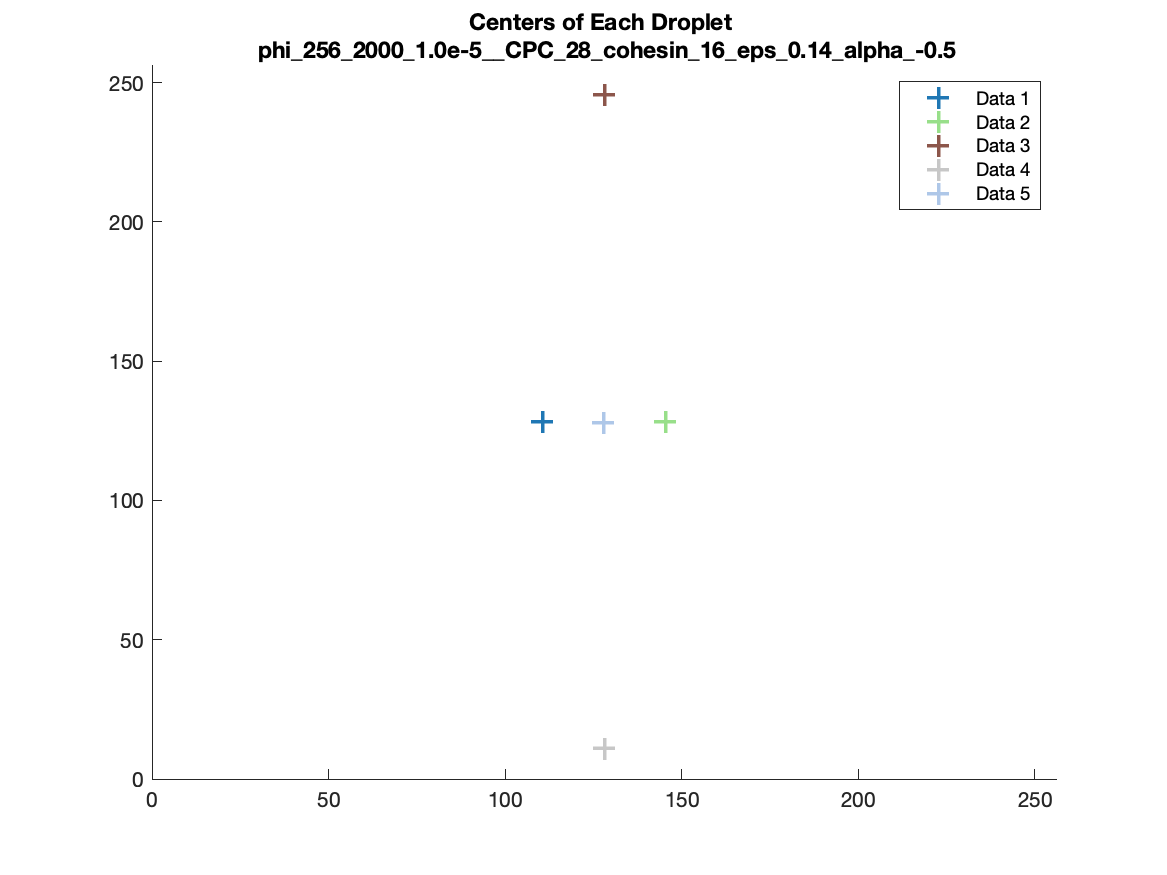
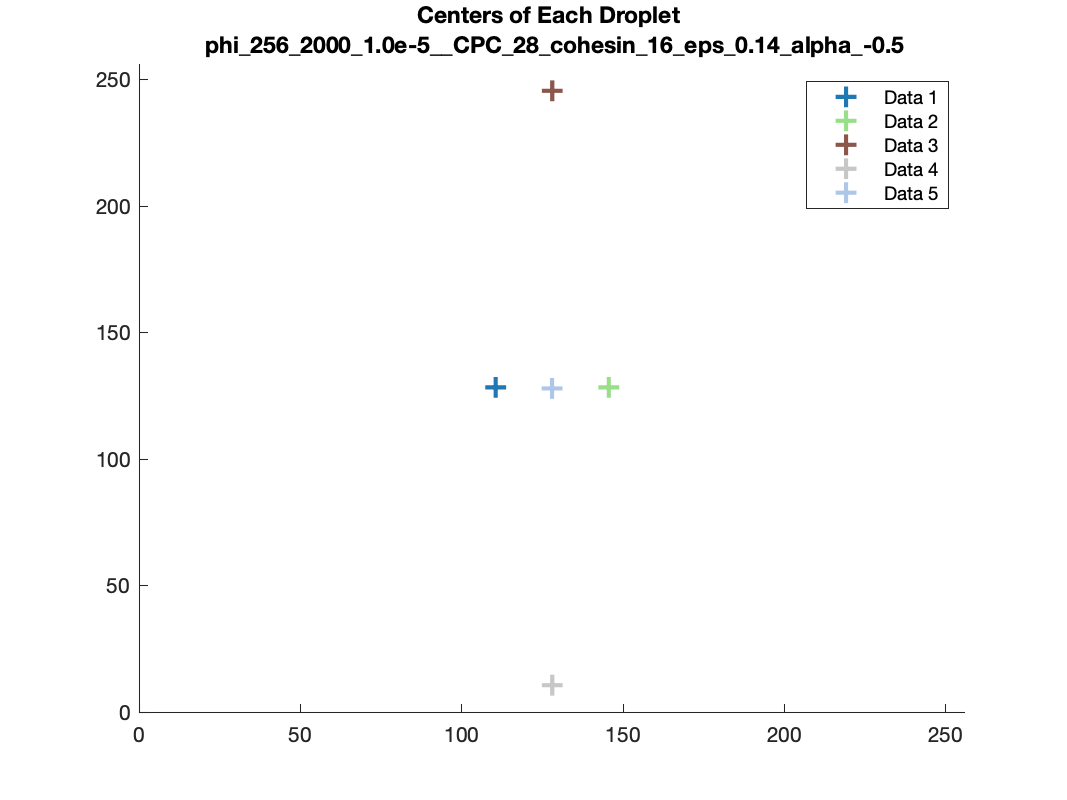
CPC radii eps 0.08 0.14

diff --git a/Cahn_Hilliard_solvers/plotting/level_set_radius_multiple_droplets.m b/Cahn_Hilliard_solvers/plotting/level_set_radius_multiple_droplets.m
@@ -138,7 +138,7 @@ function [] = level_set_radius_multiple_droplets(CPC, cohesin, epsilon, indir, p
                 break %if the droplet dissolves, this will throw an error, so stop iterating over timepoints
             end
         end
-        if false
+        if true
             if ismember(timepoint, [0, 0.004, 0.0075, 0.008, 0.01, 0.025, 0.04, 0.05])
                 data_at_t = data(:, :,t);
             
@@ -236,20 +236,20 @@ function [] = level_set_radius_multiple_droplets(CPC, cohesin, epsilon, indir, p
 
     save(sprintf('%s/trackedDroplets.mat', outdir), "trackedDroplets")
 
-    % figure('visible', 'off');
-    % hold on;
-    % for i=1:length(trackedDroplets)
-    %     plot(trackedDroplets(i).center(1), trackedDroplets(i).center(2), 'r+', 'MarkerSize', 10, 'LineWidth', 2, ...
-    %         'Color', colors{i},"DisplayName",sprintf('Data %d', i));
-    % end
-    % legend show;
-    % xlim([0, 256]);
-    % ylim([0, 256]);
-    % title(sprintf('Centers of Each Droplet \n %s', name));
+    figure('visible', 'off');
+    hold on;
+    for i=1:length(trackedDroplets)
+        plot(trackedDroplets(i).center(1), trackedDroplets(i).center(2), 'r+', 'MarkerSize', 10, 'LineWidth', 2, ...
+            'Color', colors{i},"DisplayName",sprintf('Data %d', i));
+    end
+    legend show;
+    xlim([0, 256]);
+    ylim([0, 256]);
+    title(sprintf('Centers of Each Droplet \n %s', name));
 
-    % % sprintf('%s/droplet_centers.pdf', outdir)
-    % print(gcf,sprintf('%s/droplet_centers.png', outdir),"-dpng")
-    % hold off;
+    % sprintf('%s/droplet_centers.pdf', outdir)
+    print(gcf,sprintf('%s/droplet_centers.png', outdir),"-dpng")
+    hold off;
 
 
     % %%%%%%%%%%%%%%%%%%%%%%%%%%
